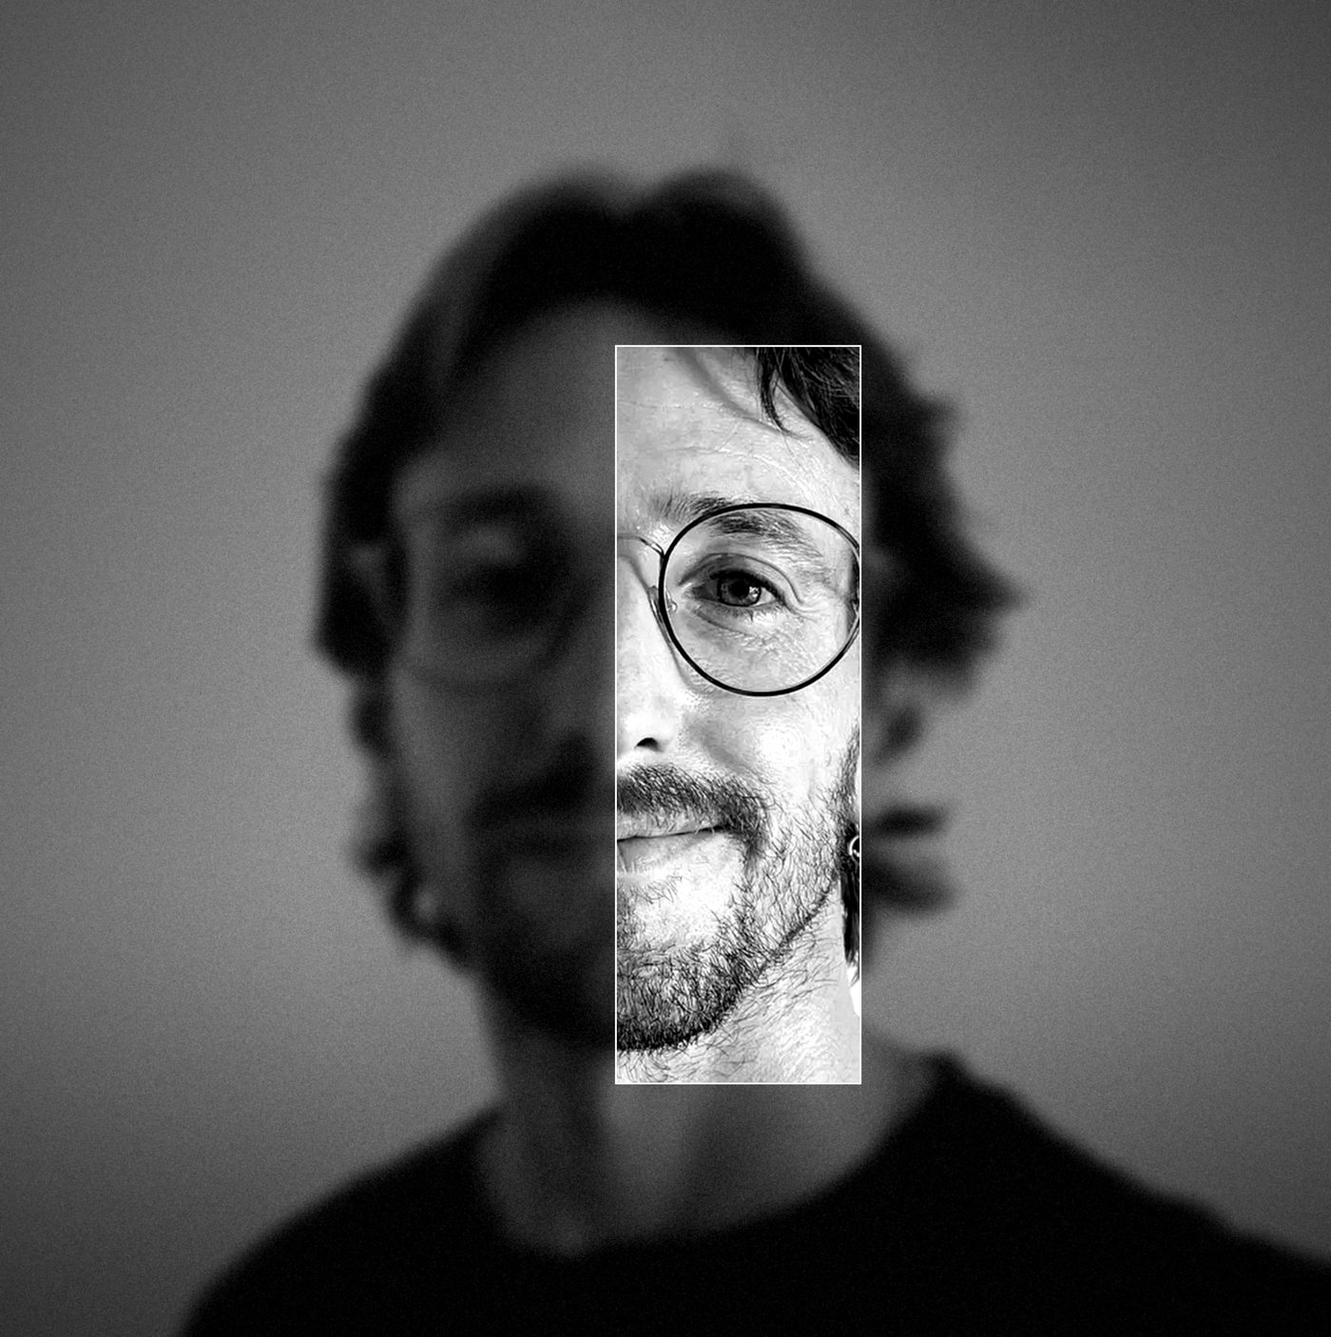
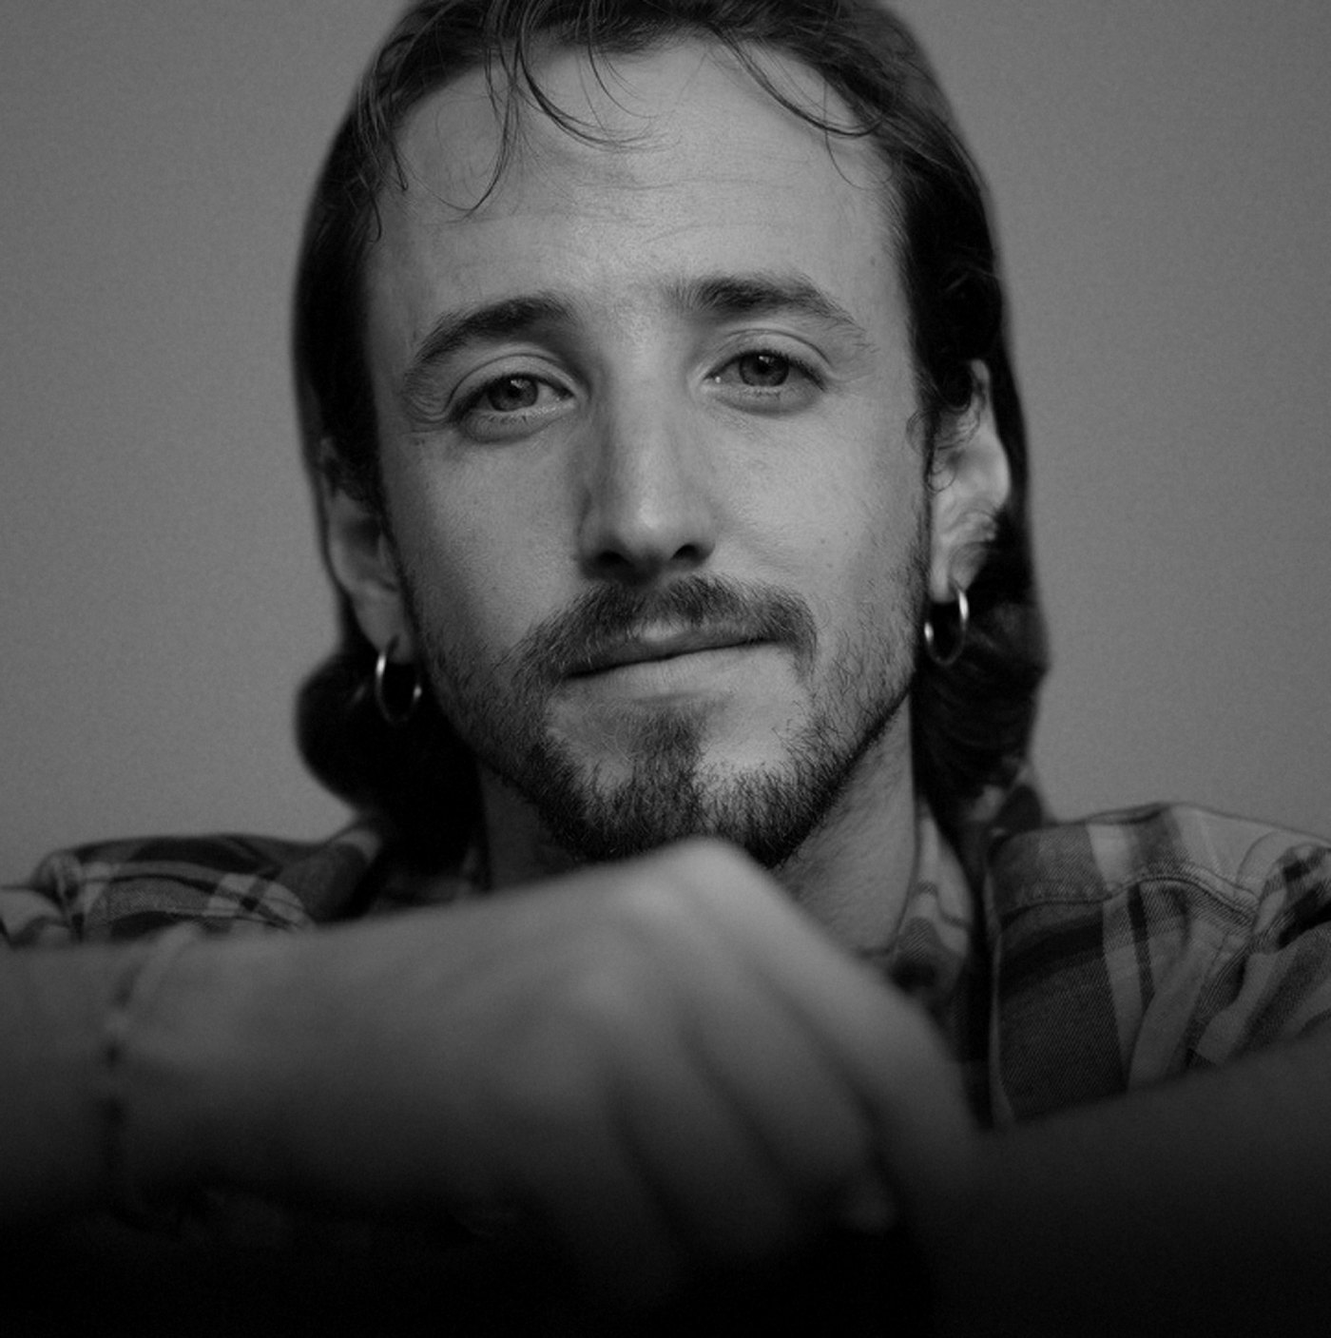
Prova 5b: portada sense rectangle (no publicat a main)
Claude-Session: https://claude.ai/code/session_01Gu4fKh15S1mJkh4ThjJ3MW

diff --git a/index.html b/index.html
@@ -183,7 +183,7 @@ button.big{background:none;border:0;padding:0;font-family:inherit;text-align:lef
 <header class="bar" aria-hidden="true"><a class="wm" href="#inici">Pau Fotografia</a><nav><a href="#contacte" data-t="cont">Contacte</a></nav></header>
 <main class="page" id="inici">
   <section class="hero">
-    <picture><source media="(min-width:1200px)" srcset="/pack/hero-wide.jpg?v=20261118b"><img src="/pack/hero.jpg?v=20261118b" alt="Pau amb ulleres, fons desenfocat i una finestra nítida sobre mig rostre" fetchpriority="high"></picture>
+    <picture><source media="(min-width:1200px)" srcset="/pack/hero-wide.jpg?v=p5b"><img src="/pack/hero.jpg?v=p5b" alt="Pau amb ulleres, fons desenfocat i una finestra nítida sobre mig rostre" fetchpriority="high"></picture>
     <div class="top"><div class="sm" data-t="tag">Fotògraf social i documental</div>
       <div class="ctrls"><div class="toggle lang" role="group" aria-label="Idioma"><button class="on" data-lang="ca">CAT</button><span>|</span><button data-lang="es">ESP</button><span>|</span><button data-lang="en">ENG</button></div></div></div>
     <h1>Pau Fotografia</h1>
@@ -194,14 +194,14 @@ button.big{background:none;border:0;padding:0;font-family:inherit;text-align:lef
     <div class="quote"><p data-t="quote">«El document humà per mantenir el present i el futur en contacte amb el passat.»</p><div class="lb">Lewis Hine</div></div>
   </section>
   <div class="hl"></div>
-  <div class="slider multi sl-elvi" style="aspect-ratio:1080/1150"><div class="track"><figure class="slide"><img class="b" data-v="elvi" src="/pack/elvi-color.jpg?v=20261118b" alt="Elvi somrient amb un floc de cabell davant la cara" loading="eager" style="object-position:50% 30%"><img class="o" data-v="elvi" src="/pack/elvi-bn.jpg?v=20261118b" alt="" aria-hidden="true" loading="lazy" style="object-position:50% 30%"><button class="sw" type="button" aria-label="Veure en blanc i negre"><i></i></button></figure><figure class="slide"><img class="b" data-v="elvi-01" src="/pack/elvi-01-color.jpg?v=20261118b" alt="Elvi amb les mans als cabells" loading="lazy" style="object-position:50% 30%"><img class="o" data-v="elvi-01" src="/pack/elvi-01-bn.jpg?v=20261118b" alt="" aria-hidden="true" loading="lazy" style="object-position:50% 30%"><button class="sw" type="button" aria-label="Veure en blanc i negre"><i></i></button></figure><figure class="slide"><img class="b" data-v="elvi-03" src="/pack/elvi-03-color.jpg?v=20261118b" alt="Elvi mirant de reüll" loading="lazy" style="object-position:50% 30%"><img class="o" data-v="elvi-03" src="/pack/elvi-03-bn.jpg?v=20261118b" alt="" aria-hidden="true" loading="lazy" style="object-position:50% 30%"><button class="sw" type="button" aria-label="Veure en blanc i negre"><i></i></button></figure><figure class="slide"><img class="b" data-v="elvi-04" src="/pack/elvi-04-color.jpg?v=20261118b" alt="Elvi de perfil a la finestra" loading="lazy" style="object-position:50% 30%"><img class="o" data-v="elvi-04" src="/pack/elvi-04-bn.jpg?v=20261118b" alt="" aria-hidden="true" loading="lazy" style="object-position:50% 30%"><button class="sw" type="button" aria-label="Veure en blanc i negre"><i></i></button></figure><figure class="slide"><img class="b" data-v="elvi-05" src="/pack/elvi-05-color.jpg?v=20261118b" alt="Elvi amb la llum de la cortina" loading="lazy" style="object-position:50% 30%"><img class="o" data-v="elvi-05" src="/pack/elvi-05-bn.jpg?v=20261118b" alt="" aria-hidden="true" loading="lazy" style="object-position:50% 30%"><button class="sw" type="button" aria-label="Veure en blanc i negre"><i></i></button></figure></div><div class="dots"><i class=on></i><i></i><i></i><i></i><i></i></div><div class="count">1/5</div><button class="nav prev" aria-label="Anterior">‹</button><button class="nav next" aria-label="Següent">›</button></div>
+  <div class="slider multi sl-elvi" style="aspect-ratio:1080/1150"><div class="track"><figure class="slide"><img class="b" data-v="elvi" src="/pack/elvi-color.jpg?v=p5b" alt="Elvi somrient amb un floc de cabell davant la cara" loading="eager" style="object-position:50% 30%"><img class="o" data-v="elvi" src="/pack/elvi-bn.jpg?v=p5b" alt="" aria-hidden="true" loading="lazy" style="object-position:50% 30%"><button class="sw" type="button" aria-label="Veure en blanc i negre"><i></i></button></figure><figure class="slide"><img class="b" data-v="elvi-01" src="/pack/elvi-01-color.jpg?v=p5b" alt="Elvi amb les mans als cabells" loading="lazy" style="object-position:50% 30%"><img class="o" data-v="elvi-01" src="/pack/elvi-01-bn.jpg?v=p5b" alt="" aria-hidden="true" loading="lazy" style="object-position:50% 30%"><button class="sw" type="button" aria-label="Veure en blanc i negre"><i></i></button></figure><figure class="slide"><img class="b" data-v="elvi-03" src="/pack/elvi-03-color.jpg?v=p5b" alt="Elvi mirant de reüll" loading="lazy" style="object-position:50% 30%"><img class="o" data-v="elvi-03" src="/pack/elvi-03-bn.jpg?v=p5b" alt="" aria-hidden="true" loading="lazy" style="object-position:50% 30%"><button class="sw" type="button" aria-label="Veure en blanc i negre"><i></i></button></figure><figure class="slide"><img class="b" data-v="elvi-04" src="/pack/elvi-04-color.jpg?v=p5b" alt="Elvi de perfil a la finestra" loading="lazy" style="object-position:50% 30%"><img class="o" data-v="elvi-04" src="/pack/elvi-04-bn.jpg?v=p5b" alt="" aria-hidden="true" loading="lazy" style="object-position:50% 30%"><button class="sw" type="button" aria-label="Veure en blanc i negre"><i></i></button></figure><figure class="slide"><img class="b" data-v="elvi-05" src="/pack/elvi-05-color.jpg?v=p5b" alt="Elvi amb la llum de la cortina" loading="lazy" style="object-position:50% 30%"><img class="o" data-v="elvi-05" src="/pack/elvi-05-bn.jpg?v=p5b" alt="" aria-hidden="true" loading="lazy" style="object-position:50% 30%"><button class="sw" type="button" aria-label="Veure en blanc i negre"><i></i></button></figure></div><div class="dots"><i class=on></i><i></i><i></i><i></i><i></i></div><div class="count">1/5</div><button class="nav prev" aria-label="Anterior">‹</button><button class="nav next" aria-label="Següent">›</button></div>
   <div class="hl"></div>
   <section class="com pad">
     <div class="lb" data-t="com">Com treballo</div>
     <p class="body" data-t="ct">Sense estudi ni decorats, als llocs quotidians i còmodes. Tu tries l'espai i el vestuari. Jo m'adapto i interfereixo el mínim perquè la càmera no sigui un obstacle per captar aquell gest, somriure o mirada espontània i real.</p>
   </section>
   <div class="hl"></div>
-  <div class="pair"><div class="slider multi sl-nuvis" style="aspect-ratio:540/720"><div class="track"><figure class="slide"><img class="b" data-v="nuvis" src="/pack/nuvis-color.jpg?v=20261118b" alt="Parella de nuvis rient a la porta" loading="lazy" style="object-position:50% 50%"><img class="o" data-v="nuvis" src="/pack/nuvis-bn.jpg?v=20261118b" alt="" aria-hidden="true" loading="lazy" style="object-position:50% 50%"><button class="sw" type="button" aria-label="Veure en blanc i negre"><i></i></button></figure><figure class="slide"><img class="b" data-v="casament-pandemia-05" src="/pack/casament-pandemia-05-color.jpg?v=20261118b" alt="Nuvis amb mascareta" loading="lazy" style="object-position:50% 50%"><img class="o" data-v="casament-pandemia-05" src="/pack/casament-pandemia-05-bn.jpg?v=20261118b" alt="" aria-hidden="true" loading="lazy" style="object-position:50% 50%"><button class="sw" type="button" aria-label="Veure en blanc i negre"><i></i></button></figure><figure class="slide"><img class="b" data-v="casament-pandemia-02" src="/pack/casament-pandemia-02-color.jpg?v=20261118b" alt="Ajustant el vestit" loading="lazy" style="object-position:50% 30%"><img class="o" data-v="casament-pandemia-02" src="/pack/casament-pandemia-02-bn.jpg?v=20261118b" alt="" aria-hidden="true" loading="lazy" style="object-position:50% 30%"><button class="sw" type="button" aria-label="Veure en blanc i negre"><i></i></button></figure><figure class="slide mono"><img class="b" data-v="casament-pandemia-04" src="/pack/casament-pandemia-04-bn.jpg?v=20261118b" alt="Sortida entre arròs" loading="lazy" style="object-position:50% 50%"></figure><figure class="slide mono"><img class="b" data-v="casament-pandemia-08" src="/pack/casament-pandemia-08-bn.jpg?v=20261118b" alt="La cerimònia" loading="lazy" style="object-position:50% 50%"></figure><figure class="slide mono"><img class="b" data-v="casament-pandemia-01" src="/pack/casament-pandemia-01-bn.jpg?v=20261118b" alt="Pentinat davant del mirall" loading="lazy" style="object-position:50% 50%"></figure></div><div class="dots"><i class=on></i><i></i><i></i><i></i><i></i><i></i></div><div class="count">1/6</div><button class="nav prev" aria-label="Anterior">‹</button><button class="nav next" aria-label="Següent">›</button></div><div class="slider multi sl-maneta" style="aspect-ratio:540/720"><div class="track"><figure class="slide"><img class="b" data-v="maneta" src="/pack/maneta-color.jpg?v=20261118b" alt="Mà d’un nadó sobre la pell" loading="lazy" style="object-position:50% 50%"><img class="o" data-v="maneta" src="/pack/maneta-bn.jpg?v=20261118b" alt="" aria-hidden="true" loading="lazy" style="object-position:50% 50%"><button class="sw" type="button" aria-label="Veure en blanc i negre"><i></i></button></figure><figure class="slide mono"><img class="b" data-v="familia-05" src="/pack/familia-05-bn.jpg?v=20261118b" alt="Peus petits" loading="lazy" style="object-position:50% 50%"></figure><figure class="slide"><img class="b" data-v="familia-07" src="/pack/familia-07-color.jpg?v=20261118b" alt="La mà a l’esquena" loading="lazy" style="object-position:50% 50%"><img class="o" data-v="familia-07" src="/pack/familia-07-bn.jpg?v=20261118b" alt="" aria-hidden="true" loading="lazy" style="object-position:50% 50%"><button class="sw" type="button" aria-label="Veure en blanc i negre"><i></i></button></figure></div><div class="dots"><i class=on></i><i></i><i></i></div><div class="count">1/3</div><button class="nav prev" aria-label="Anterior">‹</button><button class="nav next" aria-label="Següent">›</button></div></div>
+  <div class="pair"><div class="slider multi sl-nuvis" style="aspect-ratio:540/720"><div class="track"><figure class="slide"><img class="b" data-v="nuvis" src="/pack/nuvis-color.jpg?v=p5b" alt="Parella de nuvis rient a la porta" loading="lazy" style="object-position:50% 50%"><img class="o" data-v="nuvis" src="/pack/nuvis-bn.jpg?v=p5b" alt="" aria-hidden="true" loading="lazy" style="object-position:50% 50%"><button class="sw" type="button" aria-label="Veure en blanc i negre"><i></i></button></figure><figure class="slide"><img class="b" data-v="casament-pandemia-05" src="/pack/casament-pandemia-05-color.jpg?v=p5b" alt="Nuvis amb mascareta" loading="lazy" style="object-position:50% 50%"><img class="o" data-v="casament-pandemia-05" src="/pack/casament-pandemia-05-bn.jpg?v=p5b" alt="" aria-hidden="true" loading="lazy" style="object-position:50% 50%"><button class="sw" type="button" aria-label="Veure en blanc i negre"><i></i></button></figure><figure class="slide"><img class="b" data-v="casament-pandemia-02" src="/pack/casament-pandemia-02-color.jpg?v=p5b" alt="Ajustant el vestit" loading="lazy" style="object-position:50% 30%"><img class="o" data-v="casament-pandemia-02" src="/pack/casament-pandemia-02-bn.jpg?v=p5b" alt="" aria-hidden="true" loading="lazy" style="object-position:50% 30%"><button class="sw" type="button" aria-label="Veure en blanc i negre"><i></i></button></figure><figure class="slide mono"><img class="b" data-v="casament-pandemia-04" src="/pack/casament-pandemia-04-bn.jpg?v=p5b" alt="Sortida entre arròs" loading="lazy" style="object-position:50% 50%"></figure><figure class="slide mono"><img class="b" data-v="casament-pandemia-08" src="/pack/casament-pandemia-08-bn.jpg?v=p5b" alt="La cerimònia" loading="lazy" style="object-position:50% 50%"></figure><figure class="slide mono"><img class="b" data-v="casament-pandemia-01" src="/pack/casament-pandemia-01-bn.jpg?v=p5b" alt="Pentinat davant del mirall" loading="lazy" style="object-position:50% 50%"></figure></div><div class="dots"><i class=on></i><i></i><i></i><i></i><i></i><i></i></div><div class="count">1/6</div><button class="nav prev" aria-label="Anterior">‹</button><button class="nav next" aria-label="Següent">›</button></div><div class="slider multi sl-maneta" style="aspect-ratio:540/720"><div class="track"><figure class="slide"><img class="b" data-v="maneta" src="/pack/maneta-color.jpg?v=p5b" alt="Mà d’un nadó sobre la pell" loading="lazy" style="object-position:50% 50%"><img class="o" data-v="maneta" src="/pack/maneta-bn.jpg?v=p5b" alt="" aria-hidden="true" loading="lazy" style="object-position:50% 50%"><button class="sw" type="button" aria-label="Veure en blanc i negre"><i></i></button></figure><figure class="slide mono"><img class="b" data-v="familia-05" src="/pack/familia-05-bn.jpg?v=p5b" alt="Peus petits" loading="lazy" style="object-position:50% 50%"></figure><figure class="slide"><img class="b" data-v="familia-07" src="/pack/familia-07-color.jpg?v=p5b" alt="La mà a l’esquena" loading="lazy" style="object-position:50% 50%"><img class="o" data-v="familia-07" src="/pack/familia-07-bn.jpg?v=p5b" alt="" aria-hidden="true" loading="lazy" style="object-position:50% 50%"><button class="sw" type="button" aria-label="Veure en blanc i negre"><i></i></button></figure></div><div class="dots"><i class=on></i><i></i><i></i></div><div class="count">1/3</div><button class="nav prev" aria-label="Anterior">‹</button><button class="nav next" aria-label="Següent">›</button></div></div>
   <div class="hl"></div>
   <section class="pack">
     <div class="prow"><div class="pill" data-t="pack">Pack promocional – Llançament</div><div class="price">89 €<span class="ast">*</span></div>
@@ -209,9 +209,9 @@ button.big{background:none;border:0;padding:0;font-family:inherit;text-align:lef
     <div class="ptypes" data-t="tipus"><span>Retrat</span><i>·</i><span>Família</span><i>·</i><span>Embaràs</span><i>·</i><span>Parella</span></div>
   </section>
   <div class="hl"></div>
-  <div class="slider sl-mocador" style="aspect-ratio:1080/720"><div class="track"><figure class="slide"><img class="b" data-v="mocador" src="/pack/mocador-color.jpg?v=20261118b" alt="Retrat d’una dona amb mocador entre el fum" loading="lazy" style="object-position:50% 40%"><img class="o" data-v="mocador" src="/pack/mocador-bn.jpg?v=20261118b" alt="" aria-hidden="true" loading="lazy" style="object-position:50% 40%"><button class="sw" type="button" aria-label="Veure en blanc i negre"><i></i></button></figure></div></div>
+  <div class="slider sl-mocador" style="aspect-ratio:1080/720"><div class="track"><figure class="slide"><img class="b" data-v="mocador" src="/pack/mocador-color.jpg?v=p5b" alt="Retrat d’una dona amb mocador entre el fum" loading="lazy" style="object-position:50% 40%"><img class="o" data-v="mocador" src="/pack/mocador-bn.jpg?v=p5b" alt="" aria-hidden="true" loading="lazy" style="object-position:50% 40%"><button class="sw" type="button" aria-label="Veure en blanc i negre"><i></i></button></figure></div></div>
   <div class="hl"></div>
-  <div class="pair"><div class="slider multi sl-ulleres" style="aspect-ratio:540/720"><div class="track"><figure class="slide"><img class="b" data-v="ulleres" src="/pack/ulleres-color.jpg?v=20261118b" alt="Home rient amb ulleres de sol" loading="lazy" style="object-position:50% 50%"><img class="o" data-v="ulleres" src="/pack/ulleres-bn.jpg?v=20261118b" alt="" aria-hidden="true" loading="lazy" style="object-position:50% 50%"><button class="sw" type="button" aria-label="Veure en blanc i negre"><i></i></button></figure><figure class="slide"><img class="b" data-v="llum-desembre-05" src="/pack/llum-desembre-05-color.jpg?v=20261118b" alt="Cara al sol" loading="lazy" style="object-position:64% 50%"><img class="o" data-v="llum-desembre-05" src="/pack/llum-desembre-05-bn.jpg?v=20261118b" alt="" aria-hidden="true" loading="lazy" style="object-position:64% 50%"><button class="sw" type="button" aria-label="Veure en blanc i negre"><i></i></button></figure><figure class="slide"><img class="b" data-v="llum-desembre-02" src="/pack/llum-desembre-02-color.jpg?v=20261118b" alt="Somriure amb caputxa" loading="lazy" style="object-position:52% 50%"><img class="o" data-v="llum-desembre-02" src="/pack/llum-desembre-02-bn.jpg?v=20261118b" alt="" aria-hidden="true" loading="lazy" style="object-position:52% 50%"><button class="sw" type="button" aria-label="Veure en blanc i negre"><i></i></button></figure><figure class="slide"><img class="b" data-v="llum-desembre-04" src="/pack/llum-desembre-04-color.jpg?v=20261118b" alt="Per sobre de les ulleres" loading="lazy" style="object-position:56% 50%"><img class="o" data-v="llum-desembre-04" src="/pack/llum-desembre-04-bn.jpg?v=20261118b" alt="" aria-hidden="true" loading="lazy" style="object-position:56% 50%"><button class="sw" type="button" aria-label="Veure en blanc i negre"><i></i></button></figure><figure class="slide"><img class="b" data-v="llum-desembre-01" src="/pack/llum-desembre-01-color.jpg?v=20261118b" alt="Mitja cara a la llum" loading="lazy" style="object-position:54% 50%"><img class="o" data-v="llum-desembre-01" src="/pack/llum-desembre-01-bn.jpg?v=20261118b" alt="" aria-hidden="true" loading="lazy" style="object-position:54% 50%"><button class="sw" type="button" aria-label="Veure en blanc i negre"><i></i></button></figure></div><div class="dots"><i class=on></i><i></i><i></i><i></i><i></i></div><div class="count">1/5</div><button class="nav prev" aria-label="Anterior">‹</button><button class="nav next" aria-label="Següent">›</button></div><div class="slider multi sl-confeti" style="aspect-ratio:540/720"><div class="track"><figure class="slide"><img class="b" data-v="confeti" src="/pack/confeti-color.jpg?v=20261118b" alt="Nuvis sortint entre confeti amb el ram a l’aire" loading="lazy" style="object-position:64% 50%"><img class="o" data-v="confeti" src="/pack/confeti-bn.jpg?v=20261118b" alt="" aria-hidden="true" loading="lazy" style="object-position:64% 50%"><button class="sw" type="button" aria-label="Veure en blanc i negre"><i></i></button></figure><figure class="slide"><img class="b" data-v="casament-01" src="/pack/casament-01-color.jpg?v=20261118b" alt="Sortida entre confeti" loading="lazy" style="object-position:55% 50%"><img class="o" data-v="casament-01" src="/pack/casament-01-bn.jpg?v=20261118b" alt="" aria-hidden="true" loading="lazy" style="object-position:55% 50%"><button class="sw" type="button" aria-label="Veure en blanc i negre"><i></i></button></figure></div><div class="dots"><i class=on></i><i></i></div><div class="count">1/2</div><button class="nav prev" aria-label="Anterior">‹</button><button class="nav next" aria-label="Següent">›</button></div></div>
+  <div class="pair"><div class="slider multi sl-ulleres" style="aspect-ratio:540/720"><div class="track"><figure class="slide"><img class="b" data-v="ulleres" src="/pack/ulleres-color.jpg?v=p5b" alt="Home rient amb ulleres de sol" loading="lazy" style="object-position:50% 50%"><img class="o" data-v="ulleres" src="/pack/ulleres-bn.jpg?v=p5b" alt="" aria-hidden="true" loading="lazy" style="object-position:50% 50%"><button class="sw" type="button" aria-label="Veure en blanc i negre"><i></i></button></figure><figure class="slide"><img class="b" data-v="llum-desembre-05" src="/pack/llum-desembre-05-color.jpg?v=p5b" alt="Cara al sol" loading="lazy" style="object-position:64% 50%"><img class="o" data-v="llum-desembre-05" src="/pack/llum-desembre-05-bn.jpg?v=p5b" alt="" aria-hidden="true" loading="lazy" style="object-position:64% 50%"><button class="sw" type="button" aria-label="Veure en blanc i negre"><i></i></button></figure><figure class="slide"><img class="b" data-v="llum-desembre-02" src="/pack/llum-desembre-02-color.jpg?v=p5b" alt="Somriure amb caputxa" loading="lazy" style="object-position:52% 50%"><img class="o" data-v="llum-desembre-02" src="/pack/llum-desembre-02-bn.jpg?v=p5b" alt="" aria-hidden="true" loading="lazy" style="object-position:52% 50%"><button class="sw" type="button" aria-label="Veure en blanc i negre"><i></i></button></figure><figure class="slide"><img class="b" data-v="llum-desembre-04" src="/pack/llum-desembre-04-color.jpg?v=p5b" alt="Per sobre de les ulleres" loading="lazy" style="object-position:56% 50%"><img class="o" data-v="llum-desembre-04" src="/pack/llum-desembre-04-bn.jpg?v=p5b" alt="" aria-hidden="true" loading="lazy" style="object-position:56% 50%"><button class="sw" type="button" aria-label="Veure en blanc i negre"><i></i></button></figure><figure class="slide"><img class="b" data-v="llum-desembre-01" src="/pack/llum-desembre-01-color.jpg?v=p5b" alt="Mitja cara a la llum" loading="lazy" style="object-position:54% 50%"><img class="o" data-v="llum-desembre-01" src="/pack/llum-desembre-01-bn.jpg?v=p5b" alt="" aria-hidden="true" loading="lazy" style="object-position:54% 50%"><button class="sw" type="button" aria-label="Veure en blanc i negre"><i></i></button></figure></div><div class="dots"><i class=on></i><i></i><i></i><i></i><i></i></div><div class="count">1/5</div><button class="nav prev" aria-label="Anterior">‹</button><button class="nav next" aria-label="Següent">›</button></div><div class="slider multi sl-confeti" style="aspect-ratio:540/720"><div class="track"><figure class="slide"><img class="b" data-v="confeti" src="/pack/confeti-color.jpg?v=p5b" alt="Nuvis sortint entre confeti amb el ram a l’aire" loading="lazy" style="object-position:64% 50%"><img class="o" data-v="confeti" src="/pack/confeti-bn.jpg?v=p5b" alt="" aria-hidden="true" loading="lazy" style="object-position:64% 50%"><button class="sw" type="button" aria-label="Veure en blanc i negre"><i></i></button></figure><figure class="slide"><img class="b" data-v="casament-01" src="/pack/casament-01-color.jpg?v=p5b" alt="Sortida entre confeti" loading="lazy" style="object-position:55% 50%"><img class="o" data-v="casament-01" src="/pack/casament-01-bn.jpg?v=p5b" alt="" aria-hidden="true" loading="lazy" style="object-position:55% 50%"><button class="sw" type="button" aria-label="Veure en blanc i negre"><i></i></button></figure></div><div class="dots"><i class=on></i><i></i></div><div class="count">1/2</div><button class="nav prev" aria-label="Anterior">‹</button><button class="nav next" aria-label="Següent">›</button></div></div>
   <div class="hl"></div>
   <section class="contact pad" id="contacte">
     <div class="gear">
@@ -244,7 +244,7 @@ document.querySelectorAll('.slider.multi').forEach(function(s){
 var MODE='color';
 function L(){var l=document.documentElement.lang;return {ca:{swb:'Veure en blanc i negre',swc:'Veure en color'},es:{swb:'Ver en blanco y negro',swc:'Ver en color'},en:{swb:'View in black and white',swc:'View in colour'}}[l]||{swb:'Veure en blanc i negre',swc:'Veure en color'}}
 function other(){return MODE==='bn'?'color':'bn'}
-function src2(o){return '/pack/'+o.dataset.v+'-'+other()+'.jpg?v=20261118b'}
+function src2(o){return '/pack/'+o.dataset.v+'-'+other()+'.jpg?v=p5b'}
 function setX(f,x,anim){
   var o=f.querySelector('.o');if(!o.getAttribute('src'))o.src=src2(o);
   f.classList.toggle('drag',!anim);f._x=x;
